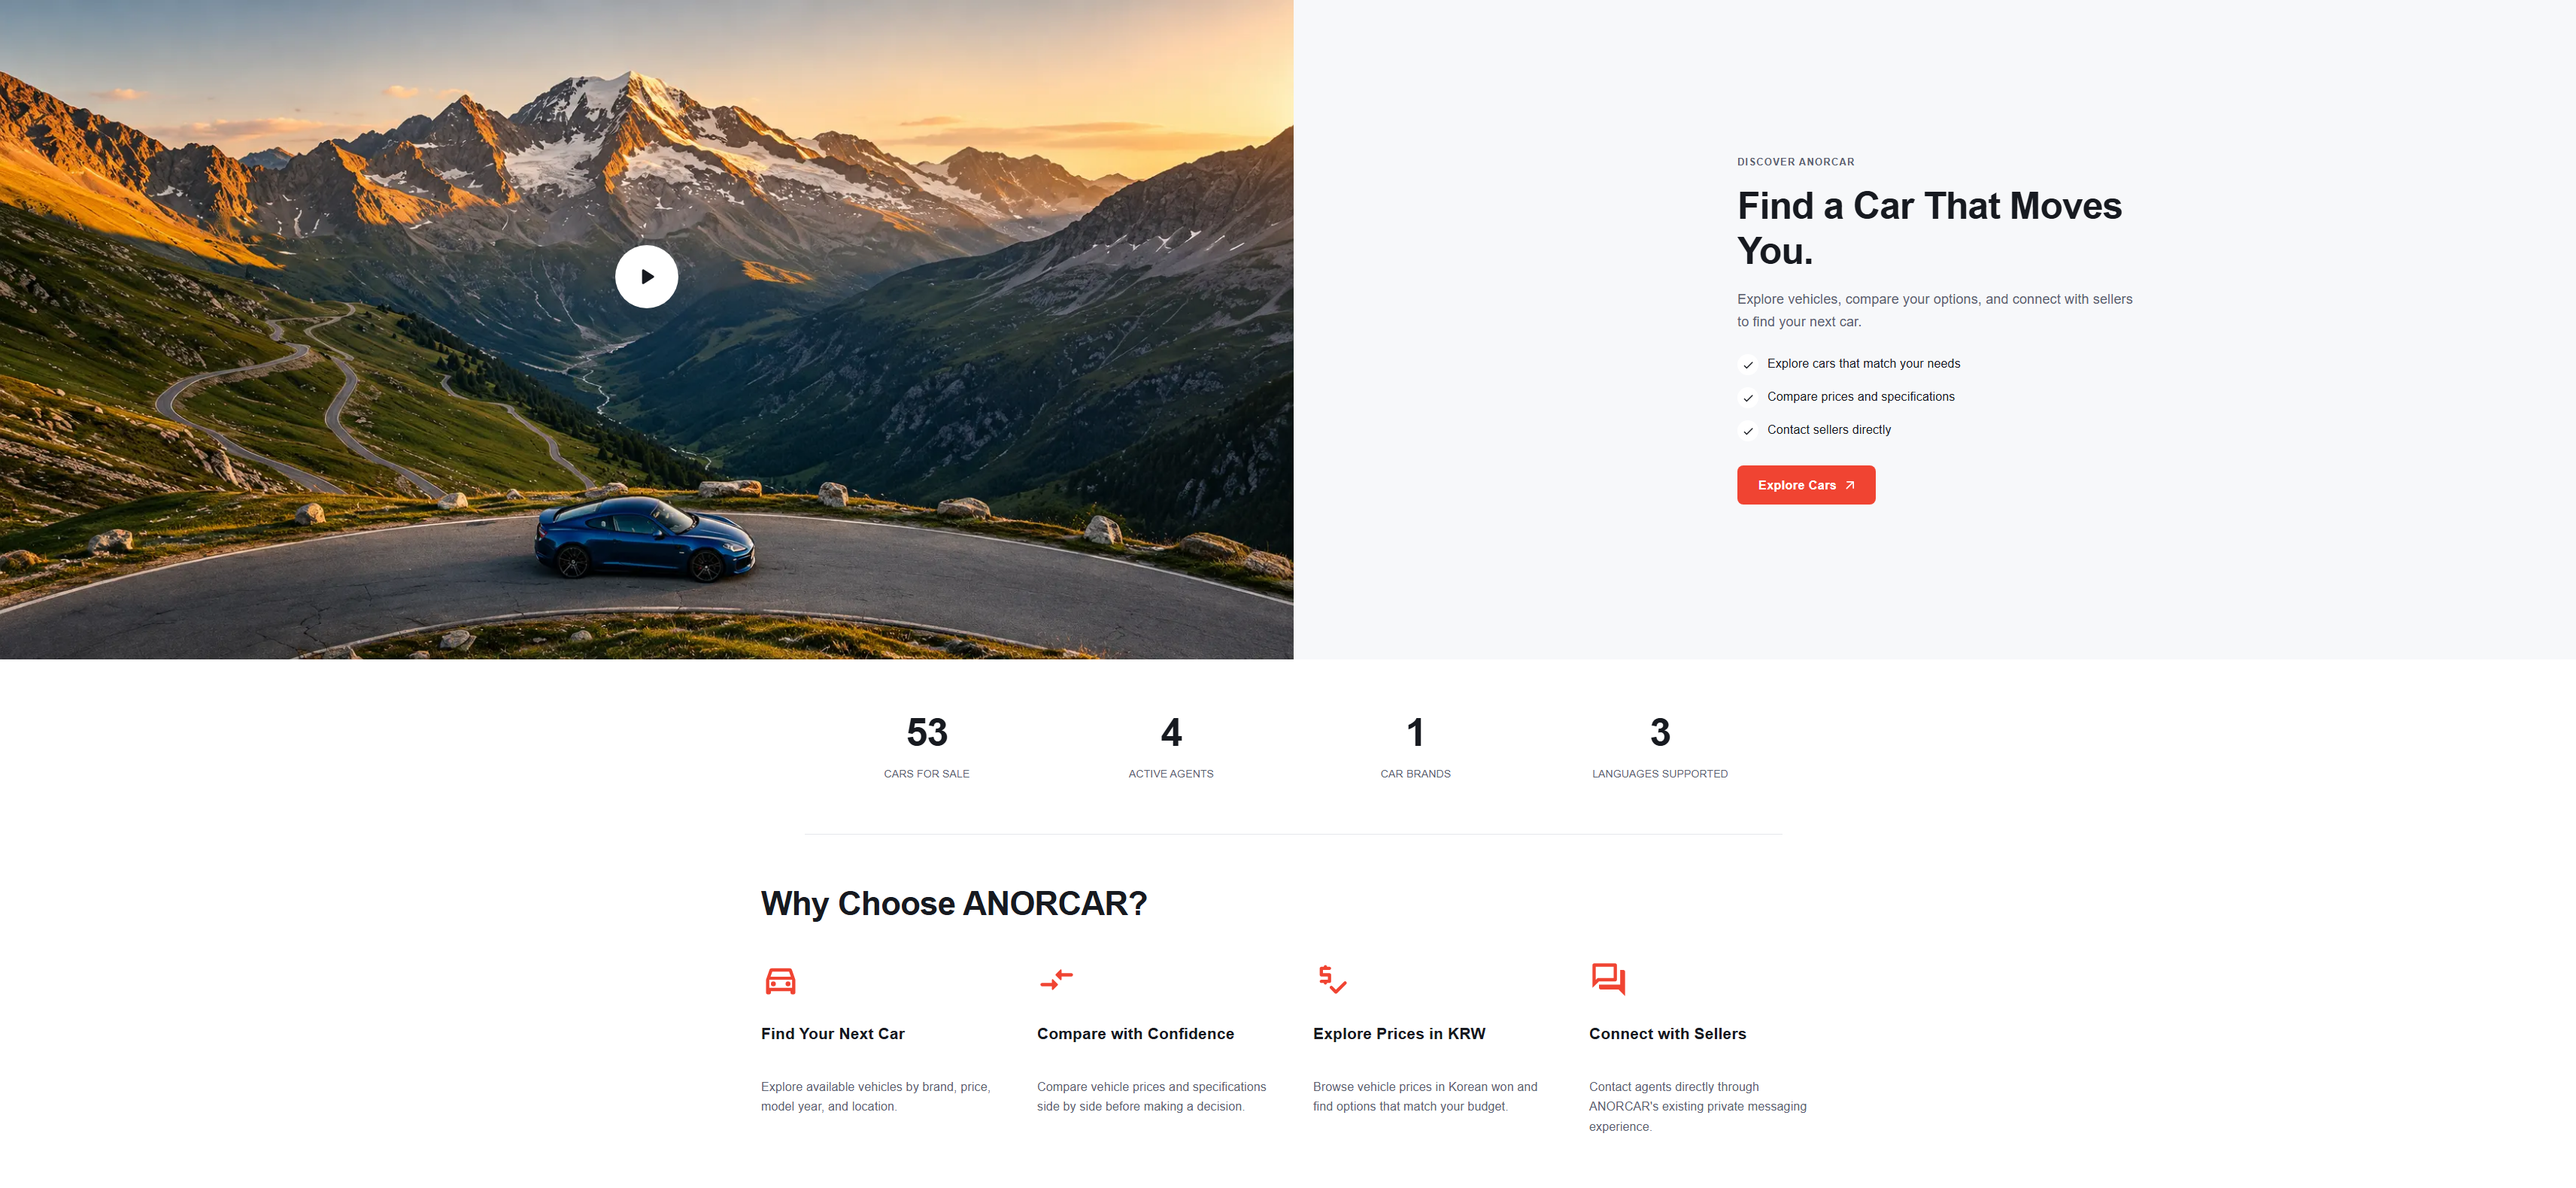
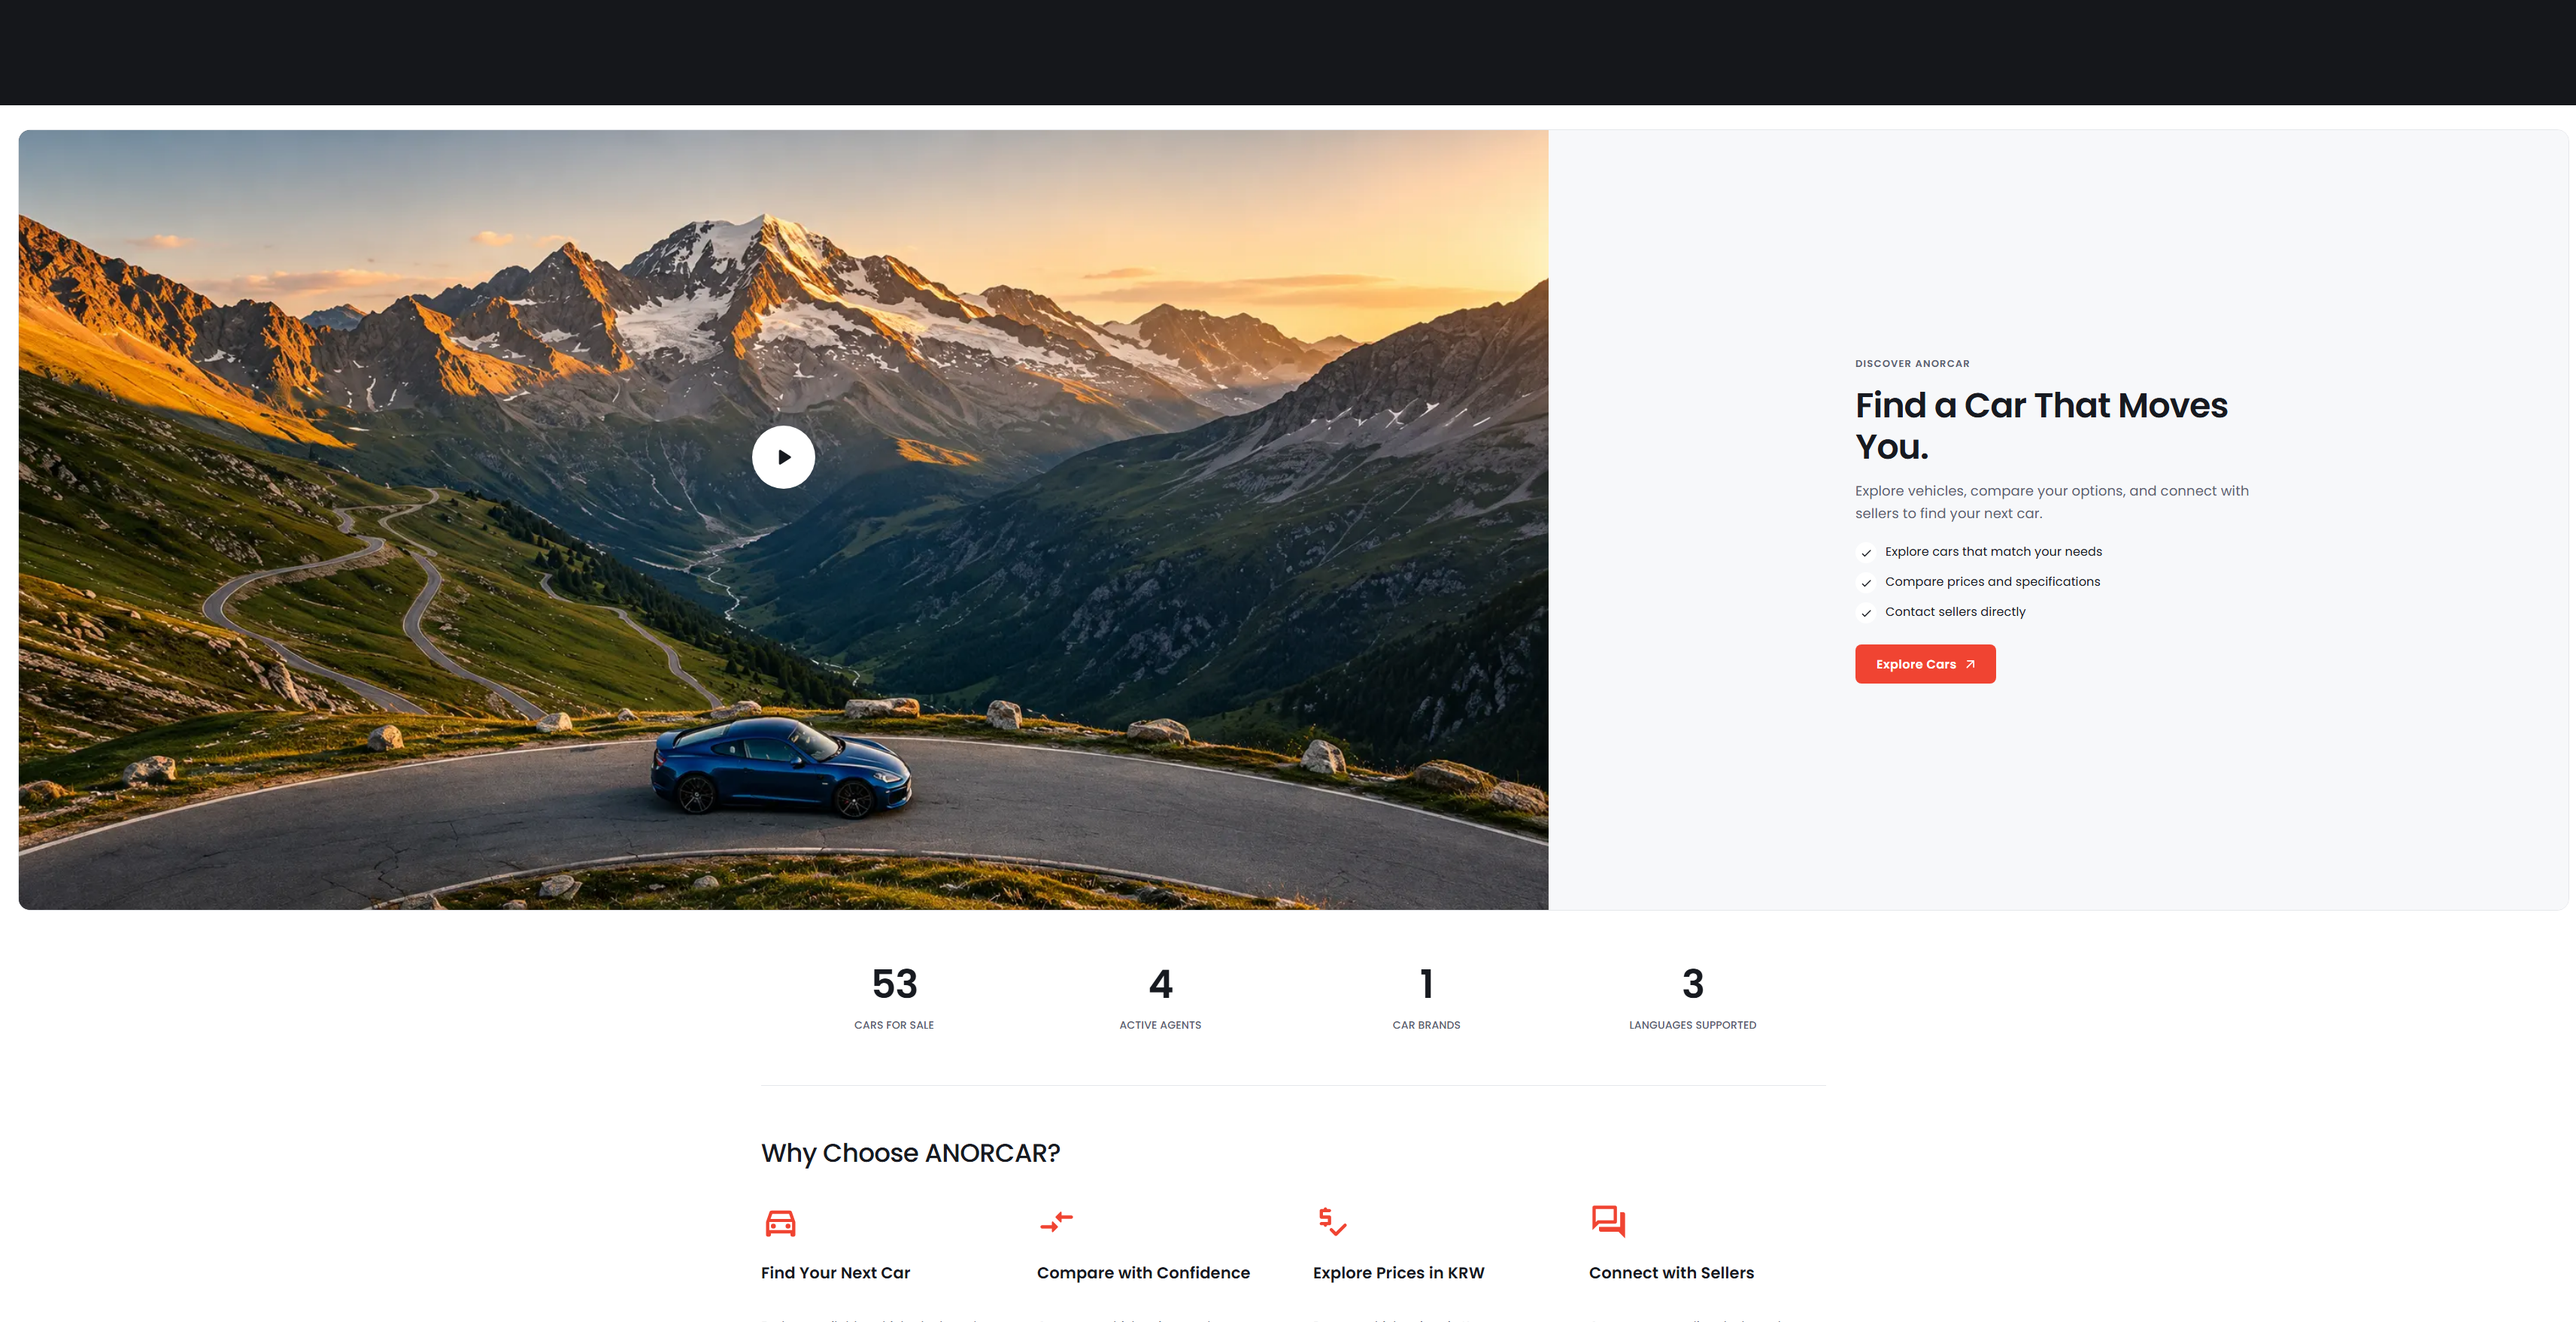
fix: improve homepage promo layout and image display

diff --git a/scss/pc/homepage/seller-showcase.scss b/scss/pc/homepage/seller-showcase.scss
@@ -1,35 +1,38 @@
 .homepage-shell#pc-wrap .home-page .seller-showcase,
 .homepage-shell#mobile-wrap .home-page .seller-showcase {
 	width: 100%;
-	padding: 0;
+	padding: 32px 0 0;
 	background: #fff;
 	font-family: $font;
 	color: #171a20;
 	.seller-showcase-container {
-		width: calc(100% - 80px);
-		max-width: 1300px;
+		width: calc(100% - 160px);
+		max-width: 1416px;
 		min-width: 0;
 		padding: 0;
 		margin: 0 auto;
 		display: block;
 	}
 	.seller-showcase-split {
-		width: 100%;
+		width: calc(100% - 48px);
+		max-width: none;
 		display: grid;
-		grid-template-columns: repeat(2, minmax(0, 1fr));
+		grid-template-columns: minmax(0, 3fr) minmax(0, 2fr);
 		align-items: stretch;
-		min-height: clamp(620px, 35vw, 680px);
+		border: 1px solid #e5e7eb;
+		border-radius: 16px;
+		overflow: hidden;
 	}
 	.seller-showcase-media {
 		position: relative;
 		width: 100%;
 		min-width: 0;
-		// Let wide panels grow from the source ratio instead of cropping the mountain tops.
+		// The source ratio sizes the panel; longer translated copy may grow the row.
 		aspect-ratio: 1756 / 896;
 		overflow: hidden;
-		background: #f7f8fa;
-		// Keep the road and entire vehicle visible when longer copy expands the row.
-		img { object-fit: cover; object-position: 50% 100%; }
+		background: #171a20;
+		// Keep both sides, the mountain landscape and car visible at any row height.
+		img { object-fit: contain; object-position: center; }
 	}
 	.seller-showcase-play {
 		position: absolute;
@@ -55,7 +58,7 @@
 		align-items: center;
 		justify-content: center;
 		min-width: 0;
-		padding: 48px clamp(56px, 4.2vw, 80px);
+		padding: 48px clamp(32px, 3vw, 64px);
 		background: #f7f8fa;
 	}
 	.seller-showcase-copy-inner {
@@ -63,14 +66,14 @@
 		max-width: 540px;
 		h2 {
 			font-family: $font;
-			margin: 0 0 20px;
-			font-size: clamp(44px, 2.6vw, 50px);
+			margin: 0 0 16px;
+			font-size: clamp(38px, 2.4vw, 46px);
 			font-weight: 600;
 			line-height: 1.2;
 			letter-spacing: -1px;
 		}
 		> p { margin: 0; color: #596170; font-size: 18px; line-height: 1.65; }
-		ul { list-style: none; margin: 28px 0 32px; padding: 0; display: grid; gap: 16px; }
+		ul { list-style: none; margin: 24px 0 28px; padding: 0; display: grid; gap: 12px; }
 		li { display: flex; align-items: flex-start; gap: 12px; font-size: 16px; line-height: 1.6; }
 		li > span {
 			display: grid;
@@ -120,7 +123,7 @@
 	}
 	.seller-showcase-benefits {
 		&.seller-showcase-container { max-width: 1416px; padding: 64px 0 72px; }
-		> h2 { font-family: $font; margin: 0 0 48px; font-size: 44px; font-weight: 600; line-height: 1.25; letter-spacing: -.8px; }
+		> h2 { font-family: $font; margin: 0 0 40px; font-size: 34px; font-weight: 500; line-height: 1.5; letter-spacing: -.646px; }
 	}
 	.seller-showcase-benefit-grid {
 		display: grid;
@@ -135,21 +138,23 @@
 	button:focus-visible, a:focus-visible { outline: 3px solid #171a20; outline-offset: 5px; }
 	.seller-showcase-play:focus-visible { outline-color: #fff; box-shadow: 0 0 0 3px #171a20; }
 	@media (max-width: 1200px) {
-		.seller-showcase-split { min-height: 580px; }
-		.seller-showcase-copy { padding: 44px 36px; }
+		padding-top: 24px;
+		.seller-showcase-container { width: calc(100% - 64px); }
+		.seller-showcase-split { width: calc(100% - 40px); grid-template-columns: 1fr; }
+		.seller-showcase-copy { padding: 36px; }
 		.seller-showcase-copy-inner { h2 { font-size: 36px; } > p { font-size: 17px; } li { font-size: 16px; } }
 		.seller-showcase-metrics { padding: 56px 0; dd { font-size: 44px; } dt { font-size: 13px; } }
-		.seller-showcase-benefits.seller-showcase-container { padding: 56px 0 64px; > h2 { font-size: 38px; } }
+		.seller-showcase-benefits.seller-showcase-container { padding: 56px 0 64px; }
 		.seller-showcase-benefit-grid { grid-template-columns: repeat(2, minmax(0, 1fr)); gap: 36px 40px; h3 { min-height: 0; } }
 	}
 	@media (max-width: 800px) {
-		.seller-showcase-container { width: calc(100% - 40px); }
-		.seller-showcase-split { grid-template-columns: 1fr; min-height: 0; }
 		.seller-showcase-copy { padding: 44px 40px; }
 		.seller-showcase-metrics { grid-template-columns: repeat(2, minmax(0, 1fr)); gap: 36px 16px; }
 	}
 	@media (max-width: 600px) {
-		.seller-showcase-container { width: calc(100% - 40px); }
+		padding-top: 16px;
+		.seller-showcase-container { width: calc(100% - 28px); }
+		.seller-showcase-split { width: calc(100% - 28px); border-radius: 12px; }
 		.seller-showcase-play { top: 40%; width: 76px; height: 76px; svg { width: 32px; height: 32px; } }
 		.seller-showcase-copy { padding: 36px 24px; }
 		.seller-showcase-copy-inner {
@@ -161,7 +166,7 @@
 		}
 		.seller-showcase-eyebrow { font-size: 12px; margin-bottom: 14px; }
 		.seller-showcase-metrics { padding: 40px 0; gap: 28px 12px; dd { font-size: 40px; } dt { font-size: 12px; line-height: 20px; } }
-		.seller-showcase-benefits.seller-showcase-container { padding: 40px 0 48px; > h2 { font-size: 32px; margin-bottom: 32px; } }
+		.seller-showcase-benefits.seller-showcase-container { padding: 40px 0 48px; > h2 { font-size: 25px; margin-bottom: 32px; } }
 		.seller-showcase-benefit-grid {
 			grid-template-columns: 1fr;
 			gap: 32px;

diff --git a/libs/components/homepage/SellerShowcase.tsx b/libs/components/homepage/SellerShowcase.tsx
@@ -109,14 +109,14 @@ export default function SellerShowcase() {
 		: ['Explore cars that match your needs', 'Compare prices and specifications', 'Contact sellers directly'];
 	return (
 		<section ref={root} className="seller-showcase" aria-labelledby="seller-showcase-heading">
-			<div className="seller-showcase-split">
+			<div className="seller-showcase-container seller-showcase-split">
 				<div className="seller-showcase-media">
 					<Image
 						src="/img/carimg21.png"
 						alt={t('A sports car on a scenic road')}
 						fill
 						loading={visible ? 'eager' : 'lazy'}
-						sizes="(max-width: 800px) 100vw, 50vw"
+						sizes="(max-width: 1200px) 100vw, 60vw"
 					/>
 					{videoId && (
 						<button

diff --git a/docs/HOME_SELLER_SHOWCASE.md b/docs/HOME_SELLER_SHOWCASE.md
@@ -1,4 +1,18 @@
-# ANORCAR full-width homepage promotion, statistics and benefits
+# ANORCAR homepage promotion, statistics and benefits
+
+## Current layout refinement - 2026-10-14
+
+Latest size correction: the user found the bounded card too small and requested the original large scale with only small top/side gaps. The promotion now spans the available width minus 24px per desktop side, 20px per tablet side and 14px per mobile side, without the 1416px maximum. Top separation is 32/24/16px respectively. Desktop copy padding is restored to 48px vertically, with a responsive 38-46px heading and 18px description. Image visibility/contain fit and the 60/40 desktop split remain; metrics/benefits retain the narrower reading container and previous alignment/type refinements. No arbitrary minimum row height or clipping was reintroduced. The earlier bounded-card description below records the superseded pass.
+
+The latest request supersedes the earlier full-bleed/zero-gap design described in the history below. The section now has 64px desktop, 48px tablet and 32px mobile top padding, separating it from Top Agents. Promotion, statistics and benefits use the same centered, 1416px-bounded container and responsive gutters as the agent content. The promotional card has a subtle border and rounded outer corners.
+
+Root cause was measured before editing: at 1440px the old media panel was 712.5px wide and 620px tall. Cover fit enlarged the panoramic 1756x896 source to approximately 1215px wide, cutting roughly 251px from each side. The section itself also began at the viewport's left edge with no gap after Agents. The new grid gives the image 60% of the card width, removes the arbitrary minimum row height and uses centered contain fit. Both desktop panels still stretch to the same row and begin at the same position; the full photograph remains visible when copy grows. Source/content proportions can produce neutral dark padding around the image. No negative margins, viewport-width hacks or layout transforms were introduced.
+
+At 1200px and below the image stacks above copy at its source aspect ratio. Copy padding/type are more compact, and the benefits heading matches existing homepage section typography (34px desktop/25px mobile). Existing carimg21 image, video configuration/dialog/keyboard focus restoration, role-aware CTA, observer loading, Apollo overview counts, localized copy, metrics and features remain. No backend, authorization, dependency or architecture changes.
+
+Validation: Yarn typecheck, component/configuration checks and browser checks cover balanced/inset edges, explicit section separation, aligned promotion/metrics/benefits, no horizontal or vertical photo crop, full vehicle bounds, non-overlapping play control, panel alignment, responsive stacking, real/zero/error count rendering, CTA, lazy modal open/close/Escape/unmount/focus and Korean/Russian text. Fixture screenshot figures are not production counts. Current screenshots: home-seller-showcase-1440.png, home-seller-showcase-1920.png, home-seller-showcase-3440.png and home-seller-showcase-390.png. No database writes, commit or deployment.
+
+## Earlier implementation history
 
 Inspired by the scale of https://boxcar-nextjs.vercel.app/ while retaining ANORCAR colors, content, permissions and the Nestar-derived architecture.
 
